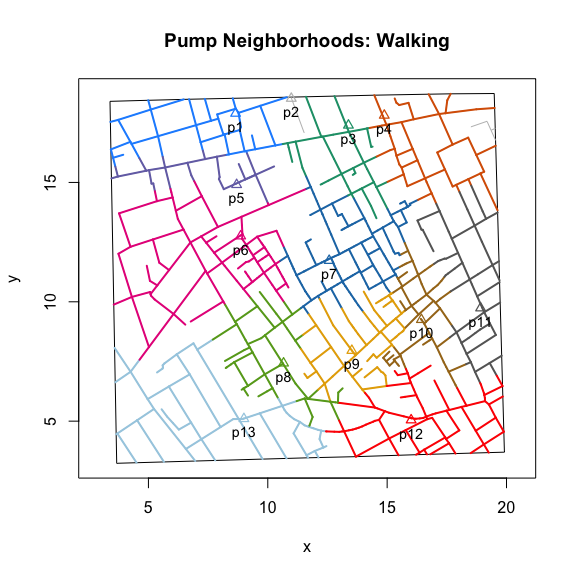
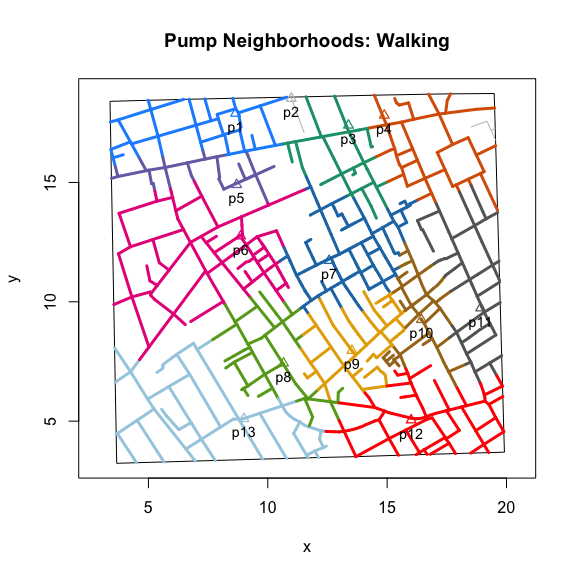
use "type" argument with plot.walking()

diff --git a/README.md b/README.md
@@ -14,7 +14,7 @@ addKernelDensity()
 
 ![](man/figures/README-kde-1.png)
 
-Now you can view the kernel densitities of pump neighborhoods separately. Either as subset of the observed neighborhoods:
+Now you can view the kernel densitities of pump neighborhoods separately. Either as a subset of the observed neighborhoods:
 
 ``` r
 snowMap(add.title = FALSE)
@@ -89,7 +89,7 @@ plot(neighborhoodWalking(case.set = "expected"))
 Or highlight the area of "expected" neighborhoods:
 
 ``` r
-plot(neighborhoodWalking(case.set = "expected"), area = TRUE)
+plot(neighborhoodWalking(case.set = "expected"), type = "area")
 ```
 
 ![](man/figures/README-expected_area-1.png)
